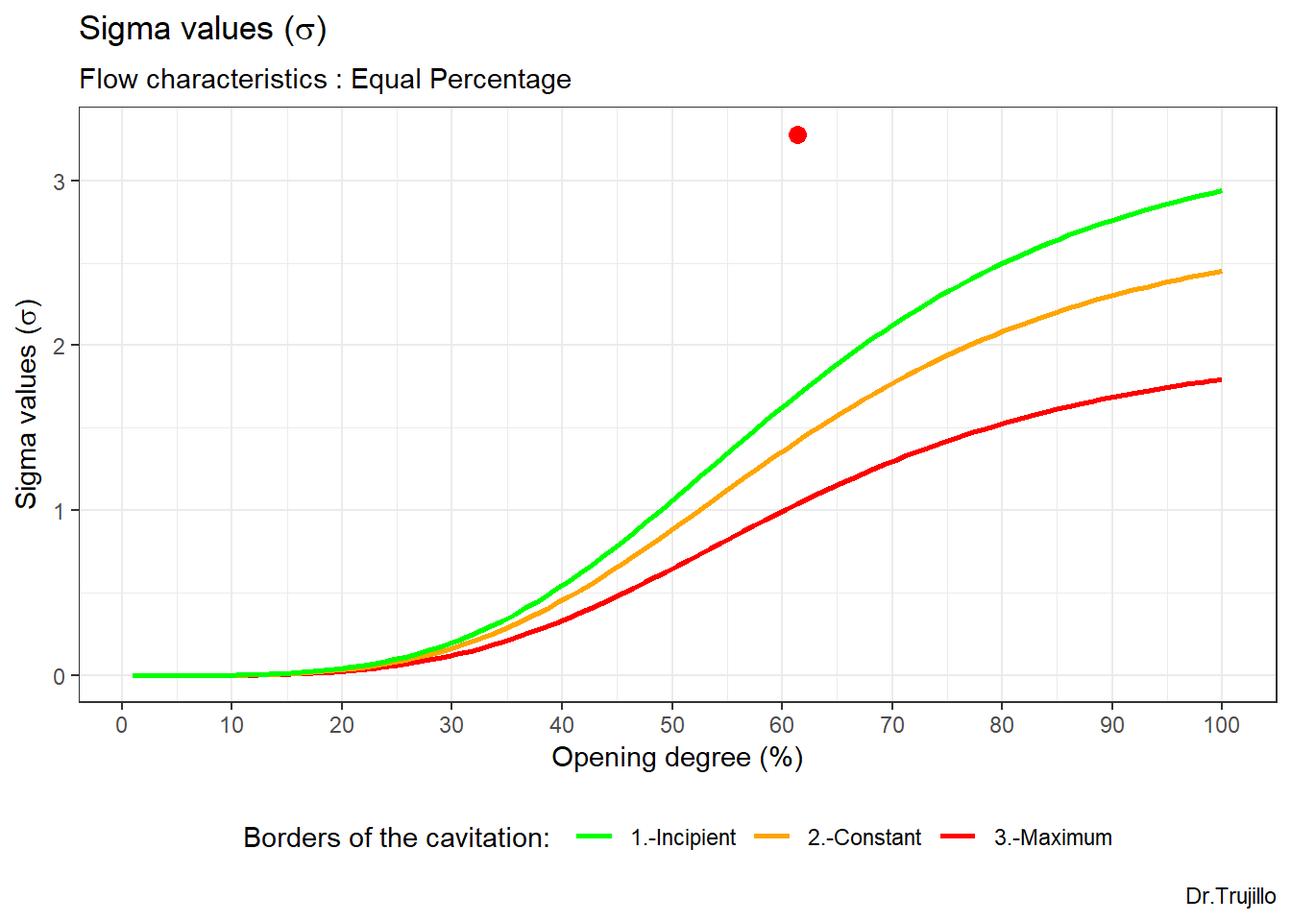
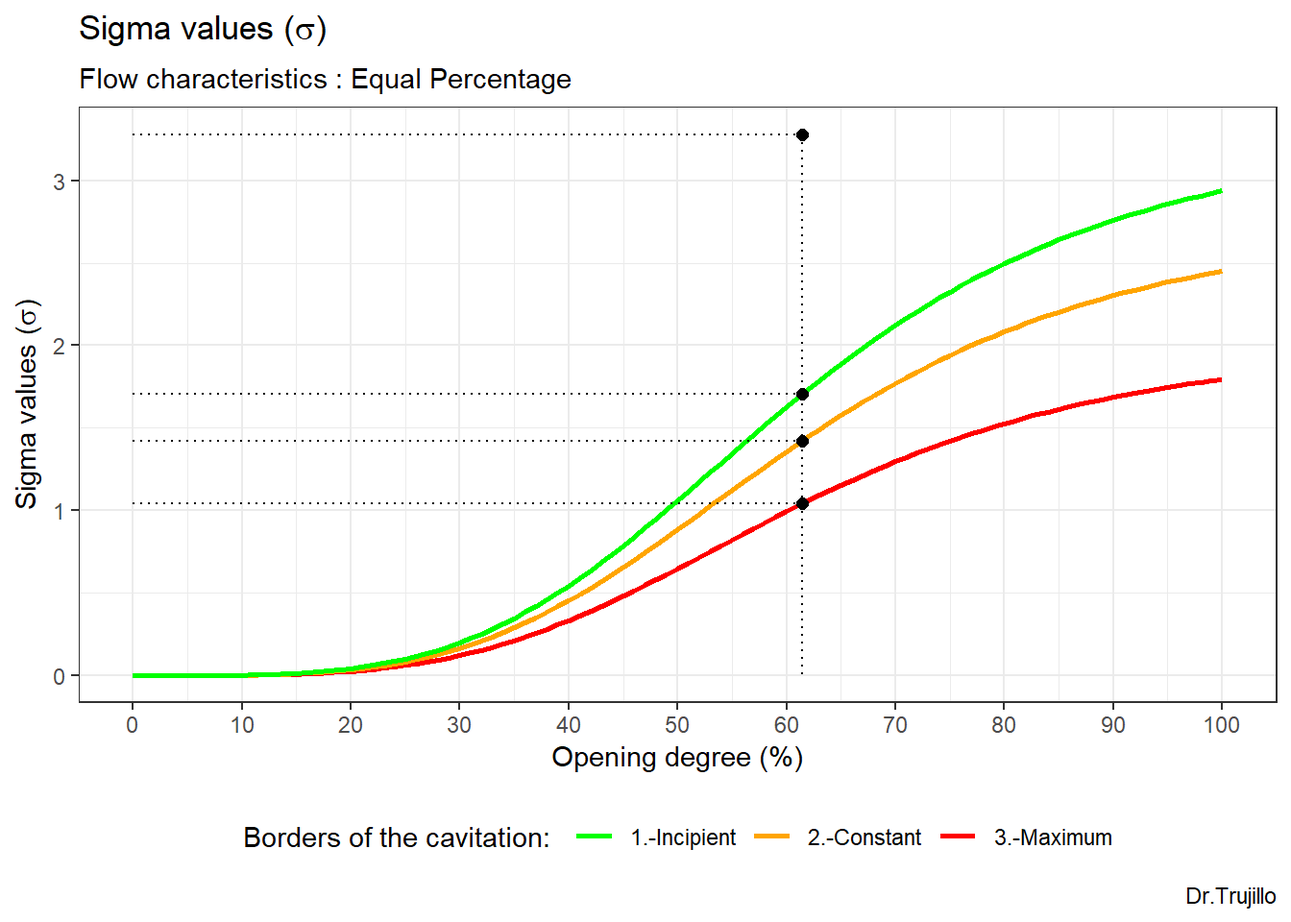
Update plot Sigma and formating of numbers

diff --git a/docs/use-of-flow-rate-equations-for-sizing-valves.html b/docs/use-of-flow-rate-equations-for-sizing-valves.html
@@ -24,7 +24,7 @@
 <meta name="author" content="Dr. Raúl Trujillo Álvarez" />
 
 
-<meta name="date" content="2020-08-26" />
+<meta name="date" content="2020-08-31" />
 
   <meta name="viewport" content="width=device-width, initial-scale=1" />
   <meta name="apple-mobile-web-app-capable" content="yes" />
@@ -122,7 +122,8 @@
 <li class="chapter" data-level="7.1.1" data-path="use-of-flow-rate-equations-for-sizing-valves.html"><a href="use-of-flow-rate-equations-for-sizing-valves.html#step-1.-specify-the-variables-required-to-size-the-valve."><i class="fa fa-check"></i><b>7.1.1</b> Step 1. Specify the variables required to size the valve.</a></li>
 <li class="chapter" data-level="7.1.2" data-path="use-of-flow-rate-equations-for-sizing-valves.html"><a href="use-of-flow-rate-equations-for-sizing-valves.html#step-2.-read-the-values-of-the-selected-control-characteristic."><i class="fa fa-check"></i><b>7.1.2</b> Step 2. Read the values of the selected Control Characteristic.</a></li>
 <li class="chapter" data-level="7.1.3" data-path="use-of-flow-rate-equations-for-sizing-valves.html"><a href="use-of-flow-rate-equations-for-sizing-valves.html#step-3.-calculate-the-required-flow-coefficient-k_v."><i class="fa fa-check"></i><b>7.1.3</b> Step 3. Calculate the required flow coefficient (<span class="math inline">\(K_v\)</span>).</a></li>
-<li class="chapter" data-level="7.1.4" data-path="use-of-flow-rate-equations-for-sizing-valves.html"><a href="use-of-flow-rate-equations-for-sizing-valves.html#step-3.-determine-the-pressure-drop-to-use-for-sizing-deltap_sizing."><i class="fa fa-check"></i><b>7.1.4</b> Step 3. Determine the pressure drop to use for sizing (<span class="math inline">\(\Delta{P_{sizing}}).\)</span></a></li>
+<li class="chapter" data-level="7.1.4" data-path="use-of-flow-rate-equations-for-sizing-valves.html"><a href="use-of-flow-rate-equations-for-sizing-valves.html#step-4.-calculate-the-value-of-sigma-sigma-and-its-boundaries."><i class="fa fa-check"></i><b>7.1.4</b> Step 4. calculate the value of sigma (<span class="math inline">\(\sigma\)</span>) and its boundaries.</a></li>
+<li class="chapter" data-level="7.1.5" data-path="use-of-flow-rate-equations-for-sizing-valves.html"><a href="use-of-flow-rate-equations-for-sizing-valves.html#step-5.-determine-the-pressure-drop-to-use-for-sizing-deltap_sizing."><i class="fa fa-check"></i><b>7.1.5</b> Step 5. Determine the pressure drop to use for sizing (<span class="math inline">\(\Delta{P_{sizing}}).\)</span></a></li>
 </ul></li>
 </ul></li>
 <li class="chapter" data-level="8" data-path="how-to-size-a-control-valve.html"><a href="how-to-size-a-control-valve.html"><i class="fa fa-check"></i><b>8</b> How to Size a control valve</a><ul>
@@ -157,12 +158,13 @@
 <h1><span class="header-section-number">Chapter 7</span> Use of flow rate equations for sizing valves</h1>
 <div id="example-1-sizing-a-valve-with-constant-flow-constant-upstream-and-constant-downstream-pressures." class="section level2">
 <h2><span class="header-section-number">7.1</span> Example 1: Sizing a valve with constant flow, constant upstream, and constant downstream pressures.</h2>
+<p>Sizing a valve without fittings, constant flow, constant upstream, and constant downstream pressures.</p>
 <ul>
-<li><p>Step 1. Specify the variables required to size the valve.</p></li>
-<li><p>Step 2. Read the values of the selected valve.</p></li>
-<li><p>Step 3. Determine the flow coefficient <span class="math inline">\(k_v\)</span>, the opening degree for the flow and <span class="math inline">\(F_L\)</span>.</p></li>
-<li><p>Step 4. Determine the pressure drop to use for sizing (<span class="math inline">\(\Delta{P_{sizing}}).\)</span></p></li>
-<li><p>Step 5. Calculate the required flow coefficient (<span class="math inline">\(K_v\)</span>).</p></li>
+<li>Step 1. Specify the variables required to size the valve.</li>
+<li>Step 2. Read the values of the selected valve.</li>
+<li>Step 3. Determine the flow coefficient <span class="math inline">\(k_v\)</span>, the opening degree for the flow and <span class="math inline">\(F_L\)</span>.</li>
+<li>Step 4. calculate the value of sigma (<span class="math inline">\(\sigma\)</span>) and its boundaries.</li>
+<li>Step 5. Determine the pressure drop to use for sizing (<span class="math inline">\(\Delta{P_{sizing}}).\)</span></li>
 </ul>
 <div id="step-1.-specify-the-variables-required-to-size-the-valve." class="section level3">
 <h3><span class="header-section-number">7.1.1</span> Step 1. Specify the variables required to size the valve.</h3>
@@ -176,7 +178,7 @@
 <li>Altitude: 0 msal.</li>
 <li>Atmosphere Pressure : 1.01325 bar</li>
 <li>Vapor Pressure : 0.0286128 bar</li>
-<li>Kinematic viscosity : 0.9430404 <span class="math inline">\((m^2/s)*1e-6\)</span></li>
+<li>Kinematic viscosity : 9.43e-01 <span class="math inline">\((mm^2/s)\)</span></li>
 </ul>
 <p>Service Conditions:</p>
 <ul>
@@ -190,7 +192,7 @@
 </ul>
 <p>Valve Design (first approx.):</p>
 <ul>
-<li>Valve: Plunger Valve <strong>VAG RIKO</strong></li>
+<li>Valve: Plunger Valve</li>
 <li>Diameter Valve <span class="math inline">\(d\)</span>: 250 mm<br />
 </li>
 <li>PN-10</li>
@@ -200,11 +202,12 @@
 </div>
 <div id="step-2.-read-the-values-of-the-selected-control-characteristic." class="section level3">
 <h3><span class="header-section-number">7.1.2</span> Step 2. Read the values of the selected Control Characteristic.</h3>
+<p>check the values of the preselected valve (values supplied by the valve producer).</p>
 <ul>
 <li>With the valve 100% open:
 <ul>
 <li>Zeta Value <span class="math inline">\(\zeta_{vs}\)</span> : 3</li>
-<li>Flow coefficient : <span class="math inline">\(K_{vs}\)</span> : 1441.9 <span class="math inline">\(m^3 / h\)</span></li>
+<li>Flow coefficient : <span class="math inline">\(K_{vs}\)</span> : 1,442 <span class="math inline">\(m^3/h\)</span></li>
 <li>liquid pressure recovery factor <span class="math inline">\({F_{L}}_{s}\)</span> : 0.598</li>
 </ul></li>
 </ul>
@@ -215,15 +218,15 @@
 <p><span class="math display">\[
   K_v = q \cdot \sqrt{\frac {(\rho / \rho_{0})}{\Delta P}}
 \]</span>
-the Required <span class="math inline">\(K_v\)</span> is 836.6 <span class="math inline">\(m^3/h\)</span> and the relative flow coefficient is <span class="math inline">\(K_v/K_{vs}=\)</span> 58%.</p>
-<p>Entering the graph of <span class="math inline">\(k_V/K_{VS}\)</span> with the value of 58% we find the position of the valve required for the flow of 795.6 <span class="math inline">\(m^3/h\)</span> and <span class="math inline">\(\Delta{P}\)</span> of 0.9 bar is 61.44%.</p>
+the Required <span class="math inline">\(K_v\)</span> is 837 <span class="math inline">\(m^3/h\)</span> and the relative flow coefficient is <span class="math inline">\(K_v/K_{vs}=\)</span> 58%.</p>
+<p>Entering the graph of <span class="math inline">\(k_V/K_{VS}\)</span> with the value of 58% we find the position of the valve required for the flow of 796 <span class="math inline">\(m^3/h\)</span> and <span class="math inline">\(\Delta{P}\)</span> of 0.9 bar is 61%.</p>
 <div class="figure"><span id="fig:kv-kvs-Example-1"></span>
 <img src="PlungerValves_files/figure-html/kv-kvs-Example-1-1.png" alt="Inherent Valve Characteristics" width="672" />
 <p class="caption">
 Figure 7.1: Inherent Valve Characteristics
 </p>
 </div>
-<p>Or it can be done directly with the <span class="math inline">\(K_V =\)</span> 837 <span class="math inline">\(m^3/h\)</span> value of on the <span class="math inline">\(K_V\)</span> graph.</p>
+<p>Or it can be done directly with the <span class="math inline">\(K_V =\)</span> 836.6268357 <span class="math inline">\(m^3/h\)</span> value of on the <span class="math inline">\(K_V\)</span> graph.</p>
 <div class="figure"><span id="fig:kv-Example-1"></span>
 <img src="PlungerValves_files/figure-html/kv-Example-1-1.png" alt="Flow coefficient" width="672" />
 <p class="caption">
@@ -232,8 +235,9 @@ Figure 7.2: Flow coefficient
 </div>
 <p>Knowing that the valve position is 61.44%, it is possible to read the Zeta Value <span class="math inline">\(\zeta_{v}\)</span> and the Liquid Pressure Recovery Factor <span class="math inline">\({F_L}\)</span>.:</p>
 <ul>
-<li><span class="math inline">\(\zeta_{v}=\)</span> 8.91</li>
-<li><span class="math inline">\({F_L}= 0.7\)</span></li>
+<li><span class="math inline">\(\zeta_{v}=\)</span> 9</li>
+<li><span class="math inline">\({F_L}=\)</span> 0.7</li>
+<li>Reynolds Number of the valve 2,530,820</li>
 </ul>
 <pre><code>## Warning: Transformation introduced infinite values in continuous y-axis</code></pre>
 <div class="figure"><span id="fig:zv-Example-1"></span>
@@ -248,15 +252,28 @@ Figure 7.3: Zeta Value
 Figure 7.4: Liquid pressure Recovery Factor
 </p>
 </div>
+</div>
+<div id="step-4.-calculate-the-value-of-sigma-sigma-and-its-boundaries." class="section level3">
+<h3><span class="header-section-number">7.1.4</span> Step 4. calculate the value of sigma (<span class="math inline">\(\sigma\)</span>) and its boundaries.</h3>
+<p>Using the function <a href="quantifying-the-cavitation-potential-of-the-valve.html#eq:sigma-value-01">(5.2)</a>:</p>
+<p><span class="math display">\[
+  \sigma_{1} = \frac{P_2-P_v}{\Delta P_{net}}
+\]</span></p>
+<ul>
+<li><p>Sigma value (<span class="math inline">\(\sigma_{1}\)</span>): 3.28</p></li>
+<li><p>Incipient Cavitation (<span class="math inline">\(\sigma_{i}\)</span>): 1.705</p></li>
+<li><p>Constant Cavitation (<span class="math inline">\(\sigma_{c}\)</span>): 1.423</p></li>
+<li><p>Maximum Vibration Cavitation (<span class="math inline">\(\sigma_{mv}\)</span>): 1.042</p></li>
+</ul>
 <div class="figure"><span id="fig:sigma-Example-1"></span>
-<img src="PlungerValves_files/figure-html/sigma-Example-1-1.png" alt="Sigma Value" width="672" />
+<img src="PlungerValves_files/figure-html/sigma-Example-1-1.png" alt="Sigma" width="672" />
 <p class="caption">
-Figure 7.5: Sigma Value
+Figure 7.5: Sigma
 </p>
 </div>
 </div>
-<div id="step-3.-determine-the-pressure-drop-to-use-for-sizing-deltap_sizing." class="section level3">
-<h3><span class="header-section-number">7.1.4</span> Step 3. Determine the pressure drop to use for sizing (<span class="math inline">\(\Delta{P_{sizing}}).\)</span></h3>
+<div id="step-5.-determine-the-pressure-drop-to-use-for-sizing-deltap_sizing." class="section level3">
+<h3><span class="header-section-number">7.1.5</span> Step 5. Determine the pressure drop to use for sizing (<span class="math inline">\(\Delta{P_{sizing}}).\)</span></h3>
 
 </div>
 </div>

diff --git a/docs/HydraulicBasics.html b/docs/HydraulicBasics.html
@@ -24,7 +24,7 @@
 <meta name="author" content="Dr. Raúl Trujillo Álvarez" />
 
 
-<meta name="date" content="2020-08-26" />
+<meta name="date" content="2020-08-31" />
 
   <meta name="viewport" content="width=device-width, initial-scale=1" />
   <meta name="apple-mobile-web-app-capable" content="yes" />
@@ -122,7 +122,8 @@
 <li class="chapter" data-level="7.1.1" data-path="use-of-flow-rate-equations-for-sizing-valves.html"><a href="use-of-flow-rate-equations-for-sizing-valves.html#step-1.-specify-the-variables-required-to-size-the-valve."><i class="fa fa-check"></i><b>7.1.1</b> Step 1. Specify the variables required to size the valve.</a></li>
 <li class="chapter" data-level="7.1.2" data-path="use-of-flow-rate-equations-for-sizing-valves.html"><a href="use-of-flow-rate-equations-for-sizing-valves.html#step-2.-read-the-values-of-the-selected-control-characteristic."><i class="fa fa-check"></i><b>7.1.2</b> Step 2. Read the values of the selected Control Characteristic.</a></li>
 <li class="chapter" data-level="7.1.3" data-path="use-of-flow-rate-equations-for-sizing-valves.html"><a href="use-of-flow-rate-equations-for-sizing-valves.html#step-3.-calculate-the-required-flow-coefficient-k_v."><i class="fa fa-check"></i><b>7.1.3</b> Step 3. Calculate the required flow coefficient (<span class="math inline">\(K_v\)</span>).</a></li>
-<li class="chapter" data-level="7.1.4" data-path="use-of-flow-rate-equations-for-sizing-valves.html"><a href="use-of-flow-rate-equations-for-sizing-valves.html#step-3.-determine-the-pressure-drop-to-use-for-sizing-deltap_sizing."><i class="fa fa-check"></i><b>7.1.4</b> Step 3. Determine the pressure drop to use for sizing (<span class="math inline">\(\Delta{P_{sizing}}).\)</span></a></li>
+<li class="chapter" data-level="7.1.4" data-path="use-of-flow-rate-equations-for-sizing-valves.html"><a href="use-of-flow-rate-equations-for-sizing-valves.html#step-4.-calculate-the-value-of-sigma-sigma-and-its-boundaries."><i class="fa fa-check"></i><b>7.1.4</b> Step 4. calculate the value of sigma (<span class="math inline">\(\sigma\)</span>) and its boundaries.</a></li>
+<li class="chapter" data-level="7.1.5" data-path="use-of-flow-rate-equations-for-sizing-valves.html"><a href="use-of-flow-rate-equations-for-sizing-valves.html#step-5.-determine-the-pressure-drop-to-use-for-sizing-deltap_sizing."><i class="fa fa-check"></i><b>7.1.5</b> Step 5. Determine the pressure drop to use for sizing (<span class="math inline">\(\Delta{P_{sizing}}).\)</span></a></li>
 </ul></li>
 </ul></li>
 <li class="chapter" data-level="8" data-path="how-to-size-a-control-valve.html"><a href="how-to-size-a-control-valve.html"><i class="fa fa-check"></i><b>8</b> How to Size a control valve</a><ul>
@@ -277,8 +278,8 @@
 <div id="roughness-coefficient-varepsilon-of-the-pipe-in-mm" class="section level2">
 <h2><span class="header-section-number">2.6</span> Roughness coefficient <span class="math inline">\(\varepsilon\)</span> of the pipe in mm</h2>
 <div class="figure"><span id="fig:roughnessTab"></span>
-<div id="htmlwidget-a570bbbf2663b847f769" style="width:100%;height:auto;" class="datatables html-widget"></div>
-<script type="application/json" data-for="htmlwidget-a570bbbf2663b847f769">{"x":{"filter":"none","data":[["1","2","3","4","5","6","7","8","9","10","11","12","13","14","15","16","17","18","19","20","21","22","23","24","25","26","27","28","29","30","31","32","33","34","35","36","37","38"],["Aluminium","Aluminium","Asbestos-cement","Brass","Brass","Cast iron","Cast iron","Cast iron","Cast iron","Cast iron","Cast iron","Clay- Drainage-pipe","Concrete","Concrete","Concrete","Concrete","Concrete-Centrifugal-","Concrete-Centrifugal-","Concrete-Steel-","Copper","Copper","Glass","Glass","Plastic","Plastic","Rubber","Steel","Steel","Steel","Steel","Steel-longitudinal welded","Steel-longitudinal welded","Steel-longitudinal welded","Steel-weldless","Steel-weldless","Steel-weldless","Steel-weldless","Steel-weldless"],["drawn/pressed","drawn/pressed","smooth","drawn/pressed","drawn/pressed","average city severage","incrusted","bituminized","with skin","operating several years- cleaned","slightly rusty","calcined","medium rough","rough","smooth","operating several years","smooth plastered","without plaster","smooth","drawn/pressed","drawn/pressed","drawn/pressed","drawn/pressed","drawn/pressed","drawn/pressed","smoot","after long operation cleaned","homogeneous corrosion pits","intensely incrusted","slightly rusty and incrusted","bituminized","galvanized","rolling skin","comm.size galvanized","neatly galvanized","pickled","rolling skin","unpickled"],[true,false,true,true,false,false,false,true,true,false,false,true,true,true,true,false,true,true,true,true,false,true,false,true,false,true,false,false,false,false,true,true,true,true,true,true,true,true],[false,true,false,false,true,true,true,false,false,true,false,false,false,false,false,true,false,false,false,false,true,false,true,false,true,false,true,true,true,true,false,false,false,false,false,false,false,false],[false,false,false,false,false,false,false,false,false,true,false,false,false,false,false,false,false,false,false,false,false,false,false,false,false,false,true,false,false,false,false,false,false,false,false,false,false,false],[0.0013,0.03,0.03,0.0013,0.03,1.2,3,0.1,0.2,1.5,1,0.7,1,2,0.3,0.2,0.1,0.2,1,0.0013,0.03,0.0013,0.03,0.0013,0.03,0.0016,0.15,0.15,2,0.15,0.01,0.008,0.04,0.1,0.07,0.03,0.02,0.03],[0.0015,0.0346,0.1,0.0014,0.0323,1.56,3.9,0.13,0.6,1.95,1.5,1.05,2,3,0.8,0.3,0.15,0.8,0.15,0.0015,0.0346,0.0015,0.0346,0.0015,0.0346,0.0018,0.2,0.2,4,0.4,0.05,0.04,0.1,0.16,0.1,0.04,0.06,0.06]],"container":"<table class=\"display\">\n  <thead>\n    <tr>\n      <th> <\/th>\n      <th>material<\/th>\n      <th>comment<\/th>\n      <th>new<\/th>\n      <th>used<\/th>\n      <th>cleaned<\/th>\n      <th>min<\/th>\n      <th>max<\/th>\n    <\/tr>\n  <\/thead>\n<\/table>","options":{"columnDefs":[{"className":"dt-right","targets":[6,7]},{"orderable":false,"targets":0}],"order":[],"autoWidth":false,"orderClasses":false}},"evals":[],"jsHooks":[]}</script>
+<div id="htmlwidget-edac96e579a643b2386e" style="width:100%;height:auto;" class="datatables html-widget"></div>
+<script type="application/json" data-for="htmlwidget-edac96e579a643b2386e">{"x":{"filter":"none","data":[["1","2","3","4","5","6","7","8","9","10","11","12","13","14","15","16","17","18","19","20","21","22","23","24","25","26","27","28","29","30","31","32","33","34","35","36","37","38"],["Aluminium","Aluminium","Asbestos-cement","Brass","Brass","Cast iron","Cast iron","Cast iron","Cast iron","Cast iron","Cast iron","Clay- Drainage-pipe","Concrete","Concrete","Concrete","Concrete","Concrete-Centrifugal-","Concrete-Centrifugal-","Concrete-Steel-","Copper","Copper","Glass","Glass","Plastic","Plastic","Rubber","Steel","Steel","Steel","Steel","Steel-longitudinal welded","Steel-longitudinal welded","Steel-longitudinal welded","Steel-weldless","Steel-weldless","Steel-weldless","Steel-weldless","Steel-weldless"],["drawn/pressed","drawn/pressed","smooth","drawn/pressed","drawn/pressed","average city severage","incrusted","bituminized","with skin","operating several years- cleaned","slightly rusty","calcined","medium rough","rough","smooth","operating several years","smooth plastered","without plaster","smooth","drawn/pressed","drawn/pressed","drawn/pressed","drawn/pressed","drawn/pressed","drawn/pressed","smoot","after long operation cleaned","homogeneous corrosion pits","intensely incrusted","slightly rusty and incrusted","bituminized","galvanized","rolling skin","comm.size galvanized","neatly galvanized","pickled","rolling skin","unpickled"],[true,false,true,true,false,false,false,true,true,false,false,true,true,true,true,false,true,true,true,true,false,true,false,true,false,true,false,false,false,false,true,true,true,true,true,true,true,true],[false,true,false,false,true,true,true,false,false,true,false,false,false,false,false,true,false,false,false,false,true,false,true,false,true,false,true,true,true,true,false,false,false,false,false,false,false,false],[false,false,false,false,false,false,false,false,false,true,false,false,false,false,false,false,false,false,false,false,false,false,false,false,false,false,true,false,false,false,false,false,false,false,false,false,false,false],[0.0013,0.03,0.03,0.0013,0.03,1.2,3,0.1,0.2,1.5,1,0.7,1,2,0.3,0.2,0.1,0.2,1,0.0013,0.03,0.0013,0.03,0.0013,0.03,0.0016,0.15,0.15,2,0.15,0.01,0.008,0.04,0.1,0.07,0.03,0.02,0.03],[0.0015,0.0346,0.1,0.0014,0.0323,1.56,3.9,0.13,0.6,1.95,1.5,1.05,2,3,0.8,0.3,0.15,0.8,0.15,0.0015,0.0346,0.0015,0.0346,0.0015,0.0346,0.0018,0.2,0.2,4,0.4,0.05,0.04,0.1,0.16,0.1,0.04,0.06,0.06]],"container":"<table class=\"display\">\n  <thead>\n    <tr>\n      <th> <\/th>\n      <th>material<\/th>\n      <th>comment<\/th>\n      <th>new<\/th>\n      <th>used<\/th>\n      <th>cleaned<\/th>\n      <th>min<\/th>\n      <th>max<\/th>\n    <\/tr>\n  <\/thead>\n<\/table>","options":{"columnDefs":[{"className":"dt-right","targets":[6,7]},{"orderable":false,"targets":0}],"order":[],"autoWidth":false,"orderClasses":false}},"evals":[],"jsHooks":[]}</script>
 <p class="caption">
 Figure 2.1: Roughness coefficient in milimeter.
 </p>

diff --git a/docs/how-to-size-a-control-valve.html b/docs/how-to-size-a-control-valve.html
@@ -24,7 +24,7 @@
 <meta name="author" content="Dr. Raúl Trujillo Álvarez" />
 
 
-<meta name="date" content="2020-08-26" />
+<meta name="date" content="2020-08-31" />
 
   <meta name="viewport" content="width=device-width, initial-scale=1" />
   <meta name="apple-mobile-web-app-capable" content="yes" />
@@ -122,7 +122,8 @@
 <li class="chapter" data-level="7.1.1" data-path="use-of-flow-rate-equations-for-sizing-valves.html"><a href="use-of-flow-rate-equations-for-sizing-valves.html#step-1.-specify-the-variables-required-to-size-the-valve."><i class="fa fa-check"></i><b>7.1.1</b> Step 1. Specify the variables required to size the valve.</a></li>
 <li class="chapter" data-level="7.1.2" data-path="use-of-flow-rate-equations-for-sizing-valves.html"><a href="use-of-flow-rate-equations-for-sizing-valves.html#step-2.-read-the-values-of-the-selected-control-characteristic."><i class="fa fa-check"></i><b>7.1.2</b> Step 2. Read the values of the selected Control Characteristic.</a></li>
 <li class="chapter" data-level="7.1.3" data-path="use-of-flow-rate-equations-for-sizing-valves.html"><a href="use-of-flow-rate-equations-for-sizing-valves.html#step-3.-calculate-the-required-flow-coefficient-k_v."><i class="fa fa-check"></i><b>7.1.3</b> Step 3. Calculate the required flow coefficient (<span class="math inline">\(K_v\)</span>).</a></li>
-<li class="chapter" data-level="7.1.4" data-path="use-of-flow-rate-equations-for-sizing-valves.html"><a href="use-of-flow-rate-equations-for-sizing-valves.html#step-3.-determine-the-pressure-drop-to-use-for-sizing-deltap_sizing."><i class="fa fa-check"></i><b>7.1.4</b> Step 3. Determine the pressure drop to use for sizing (<span class="math inline">\(\Delta{P_{sizing}}).\)</span></a></li>
+<li class="chapter" data-level="7.1.4" data-path="use-of-flow-rate-equations-for-sizing-valves.html"><a href="use-of-flow-rate-equations-for-sizing-valves.html#step-4.-calculate-the-value-of-sigma-sigma-and-its-boundaries."><i class="fa fa-check"></i><b>7.1.4</b> Step 4. calculate the value of sigma (<span class="math inline">\(\sigma\)</span>) and its boundaries.</a></li>
+<li class="chapter" data-level="7.1.5" data-path="use-of-flow-rate-equations-for-sizing-valves.html"><a href="use-of-flow-rate-equations-for-sizing-valves.html#step-5.-determine-the-pressure-drop-to-use-for-sizing-deltap_sizing."><i class="fa fa-check"></i><b>7.1.5</b> Step 5. Determine the pressure drop to use for sizing (<span class="math inline">\(\Delta{P_{sizing}}).\)</span></a></li>
 </ul></li>
 </ul></li>
 <li class="chapter" data-level="8" data-path="how-to-size-a-control-valve.html"><a href="how-to-size-a-control-valve.html"><i class="fa fa-check"></i><b>8</b> How to Size a control valve</a><ul>
@@ -232,7 +233,7 @@ Where <a href="sizing-equations-for-incompressible-fluids-flow-of-nonvaporizing-
 <p>Bernoulli pressure number in the valve outlet <a href="sizing-equations-for-incompressible-fluids-flow-of-nonvaporizing-liquid.html#eq:Zb2">(4.8)</a>:
 <span class="math inline">\(\zeta_{B_2} = 1- \left( \frac{d}{D_2} \right)^4 =\)</span> 0.0039</p>
 <p><span class="math inline">\(\sum{\zeta} =\)</span> 0.4179</p>
-<p><span class="math inline">\(F_P =\)</span> 1.158025610^{-5}</p>
+<p><span class="math inline">\(F_P =\)</span> 1.001316210^{-5}</p>
 
 </div>
 </div>

diff --git a/docs/preface.html b/docs/preface.html
@@ -24,7 +24,7 @@
 <meta name="author" content="Dr. Raúl Trujillo Álvarez" />
 
 
-<meta name="date" content="2020-08-26" />
+<meta name="date" content="2020-08-31" />
 
   <meta name="viewport" content="width=device-width, initial-scale=1" />
   <meta name="apple-mobile-web-app-capable" content="yes" />
@@ -122,7 +122,8 @@
 <li class="chapter" data-level="7.1.1" data-path="use-of-flow-rate-equations-for-sizing-valves.html"><a href="use-of-flow-rate-equations-for-sizing-valves.html#step-1.-specify-the-variables-required-to-size-the-valve."><i class="fa fa-check"></i><b>7.1.1</b> Step 1. Specify the variables required to size the valve.</a></li>
 <li class="chapter" data-level="7.1.2" data-path="use-of-flow-rate-equations-for-sizing-valves.html"><a href="use-of-flow-rate-equations-for-sizing-valves.html#step-2.-read-the-values-of-the-selected-control-characteristic."><i class="fa fa-check"></i><b>7.1.2</b> Step 2. Read the values of the selected Control Characteristic.</a></li>
 <li class="chapter" data-level="7.1.3" data-path="use-of-flow-rate-equations-for-sizing-valves.html"><a href="use-of-flow-rate-equations-for-sizing-valves.html#step-3.-calculate-the-required-flow-coefficient-k_v."><i class="fa fa-check"></i><b>7.1.3</b> Step 3. Calculate the required flow coefficient (<span class="math inline">\(K_v\)</span>).</a></li>
-<li class="chapter" data-level="7.1.4" data-path="use-of-flow-rate-equations-for-sizing-valves.html"><a href="use-of-flow-rate-equations-for-sizing-valves.html#step-3.-determine-the-pressure-drop-to-use-for-sizing-deltap_sizing."><i class="fa fa-check"></i><b>7.1.4</b> Step 3. Determine the pressure drop to use for sizing (<span class="math inline">\(\Delta{P_{sizing}}).\)</span></a></li>
+<li class="chapter" data-level="7.1.4" data-path="use-of-flow-rate-equations-for-sizing-valves.html"><a href="use-of-flow-rate-equations-for-sizing-valves.html#step-4.-calculate-the-value-of-sigma-sigma-and-its-boundaries."><i class="fa fa-check"></i><b>7.1.4</b> Step 4. calculate the value of sigma (<span class="math inline">\(\sigma\)</span>) and its boundaries.</a></li>
+<li class="chapter" data-level="7.1.5" data-path="use-of-flow-rate-equations-for-sizing-valves.html"><a href="use-of-flow-rate-equations-for-sizing-valves.html#step-5.-determine-the-pressure-drop-to-use-for-sizing-deltap_sizing."><i class="fa fa-check"></i><b>7.1.5</b> Step 5. Determine the pressure drop to use for sizing (<span class="math inline">\(\Delta{P_{sizing}}).\)</span></a></li>
 </ul></li>
 </ul></li>
 <li class="chapter" data-level="8" data-path="how-to-size-a-control-valve.html"><a href="how-to-size-a-control-valve.html"><i class="fa fa-check"></i><b>8</b> How to Size a control valve</a><ul>
@@ -156,7 +157,7 @@
 <div id="header">
 <h1 class="title">Plunger Valves (UNDER CONSTRUCTION!!!)</h1>
 <p class="author"><em>Dr. Raúl Trujillo Álvarez</em></p>
-<p class="date"><em>2020-08-26</em></p>
+<p class="date"><em>2020-08-31</em></p>
 </div>
 <div id="preface" class="section level1 unnumbered">
 <h1>Preface</h1>

diff --git a/docs/HydraulicValves.html b/docs/HydraulicValves.html
@@ -24,7 +24,7 @@
 <meta name="author" content="Dr. Raúl Trujillo Álvarez" />
 
 
-<meta name="date" content="2020-08-26" />
+<meta name="date" content="2020-08-31" />
 
   <meta name="viewport" content="width=device-width, initial-scale=1" />
   <meta name="apple-mobile-web-app-capable" content="yes" />
@@ -122,7 +122,8 @@
 <li class="chapter" data-level="7.1.1" data-path="use-of-flow-rate-equations-for-sizing-valves.html"><a href="use-of-flow-rate-equations-for-sizing-valves.html#step-1.-specify-the-variables-required-to-size-the-valve."><i class="fa fa-check"></i><b>7.1.1</b> Step 1. Specify the variables required to size the valve.</a></li>
 <li class="chapter" data-level="7.1.2" data-path="use-of-flow-rate-equations-for-sizing-valves.html"><a href="use-of-flow-rate-equations-for-sizing-valves.html#step-2.-read-the-values-of-the-selected-control-characteristic."><i class="fa fa-check"></i><b>7.1.2</b> Step 2. Read the values of the selected Control Characteristic.</a></li>
 <li class="chapter" data-level="7.1.3" data-path="use-of-flow-rate-equations-for-sizing-valves.html"><a href="use-of-flow-rate-equations-for-sizing-valves.html#step-3.-calculate-the-required-flow-coefficient-k_v."><i class="fa fa-check"></i><b>7.1.3</b> Step 3. Calculate the required flow coefficient (<span class="math inline">\(K_v\)</span>).</a></li>
-<li class="chapter" data-level="7.1.4" data-path="use-of-flow-rate-equations-for-sizing-valves.html"><a href="use-of-flow-rate-equations-for-sizing-valves.html#step-3.-determine-the-pressure-drop-to-use-for-sizing-deltap_sizing."><i class="fa fa-check"></i><b>7.1.4</b> Step 3. Determine the pressure drop to use for sizing (<span class="math inline">\(\Delta{P_{sizing}}).\)</span></a></li>
+<li class="chapter" data-level="7.1.4" data-path="use-of-flow-rate-equations-for-sizing-valves.html"><a href="use-of-flow-rate-equations-for-sizing-valves.html#step-4.-calculate-the-value-of-sigma-sigma-and-its-boundaries."><i class="fa fa-check"></i><b>7.1.4</b> Step 4. calculate the value of sigma (<span class="math inline">\(\sigma\)</span>) and its boundaries.</a></li>
+<li class="chapter" data-level="7.1.5" data-path="use-of-flow-rate-equations-for-sizing-valves.html"><a href="use-of-flow-rate-equations-for-sizing-valves.html#step-5.-determine-the-pressure-drop-to-use-for-sizing-deltap_sizing."><i class="fa fa-check"></i><b>7.1.5</b> Step 5. Determine the pressure drop to use for sizing (<span class="math inline">\(\Delta{P_{sizing}}).\)</span></a></li>
 </ul></li>
 </ul></li>
 <li class="chapter" data-level="8" data-path="how-to-size-a-control-valve.html"><a href="how-to-size-a-control-valve.html"><i class="fa fa-check"></i><b>8</b> How to Size a control valve</a><ul>

diff --git a/docs/inherent-and-installed-flow-characteristics.html b/docs/inherent-and-installed-flow-characteristics.html
@@ -24,7 +24,7 @@
 <meta name="author" content="Dr. Raúl Trujillo Álvarez" />
 
 
-<meta name="date" content="2020-08-26" />
+<meta name="date" content="2020-08-31" />
 
   <meta name="viewport" content="width=device-width, initial-scale=1" />
   <meta name="apple-mobile-web-app-capable" content="yes" />
@@ -122,7 +122,8 @@
 <li class="chapter" data-level="7.1.1" data-path="use-of-flow-rate-equations-for-sizing-valves.html"><a href="use-of-flow-rate-equations-for-sizing-valves.html#step-1.-specify-the-variables-required-to-size-the-valve."><i class="fa fa-check"></i><b>7.1.1</b> Step 1. Specify the variables required to size the valve.</a></li>
 <li class="chapter" data-level="7.1.2" data-path="use-of-flow-rate-equations-for-sizing-valves.html"><a href="use-of-flow-rate-equations-for-sizing-valves.html#step-2.-read-the-values-of-the-selected-control-characteristic."><i class="fa fa-check"></i><b>7.1.2</b> Step 2. Read the values of the selected Control Characteristic.</a></li>
 <li class="chapter" data-level="7.1.3" data-path="use-of-flow-rate-equations-for-sizing-valves.html"><a href="use-of-flow-rate-equations-for-sizing-valves.html#step-3.-calculate-the-required-flow-coefficient-k_v."><i class="fa fa-check"></i><b>7.1.3</b> Step 3. Calculate the required flow coefficient (<span class="math inline">\(K_v\)</span>).</a></li>
-<li class="chapter" data-level="7.1.4" data-path="use-of-flow-rate-equations-for-sizing-valves.html"><a href="use-of-flow-rate-equations-for-sizing-valves.html#step-3.-determine-the-pressure-drop-to-use-for-sizing-deltap_sizing."><i class="fa fa-check"></i><b>7.1.4</b> Step 3. Determine the pressure drop to use for sizing (<span class="math inline">\(\Delta{P_{sizing}}).\)</span></a></li>
+<li class="chapter" data-level="7.1.4" data-path="use-of-flow-rate-equations-for-sizing-valves.html"><a href="use-of-flow-rate-equations-for-sizing-valves.html#step-4.-calculate-the-value-of-sigma-sigma-and-its-boundaries."><i class="fa fa-check"></i><b>7.1.4</b> Step 4. calculate the value of sigma (<span class="math inline">\(\sigma\)</span>) and its boundaries.</a></li>
+<li class="chapter" data-level="7.1.5" data-path="use-of-flow-rate-equations-for-sizing-valves.html"><a href="use-of-flow-rate-equations-for-sizing-valves.html#step-5.-determine-the-pressure-drop-to-use-for-sizing-deltap_sizing."><i class="fa fa-check"></i><b>7.1.5</b> Step 5. Determine the pressure drop to use for sizing (<span class="math inline">\(\Delta{P_{sizing}}).\)</span></a></li>
 </ul></li>
 </ul></li>
 <li class="chapter" data-level="8" data-path="how-to-size-a-control-valve.html"><a href="how-to-size-a-control-valve.html"><i class="fa fa-check"></i><b>8</b> How to Size a control valve</a><ul>

diff --git a/docs/intro.html b/docs/intro.html
@@ -24,7 +24,7 @@
 <meta name="author" content="Dr. Raúl Trujillo Álvarez" />
 
 
-<meta name="date" content="2020-08-26" />
+<meta name="date" content="2020-08-31" />
 
   <meta name="viewport" content="width=device-width, initial-scale=1" />
   <meta name="apple-mobile-web-app-capable" content="yes" />
@@ -122,7 +122,8 @@
 <li class="chapter" data-level="7.1.1" data-path="use-of-flow-rate-equations-for-sizing-valves.html"><a href="use-of-flow-rate-equations-for-sizing-valves.html#step-1.-specify-the-variables-required-to-size-the-valve."><i class="fa fa-check"></i><b>7.1.1</b> Step 1. Specify the variables required to size the valve.</a></li>
 <li class="chapter" data-level="7.1.2" data-path="use-of-flow-rate-equations-for-sizing-valves.html"><a href="use-of-flow-rate-equations-for-sizing-valves.html#step-2.-read-the-values-of-the-selected-control-characteristic."><i class="fa fa-check"></i><b>7.1.2</b> Step 2. Read the values of the selected Control Characteristic.</a></li>
 <li class="chapter" data-level="7.1.3" data-path="use-of-flow-rate-equations-for-sizing-valves.html"><a href="use-of-flow-rate-equations-for-sizing-valves.html#step-3.-calculate-the-required-flow-coefficient-k_v."><i class="fa fa-check"></i><b>7.1.3</b> Step 3. Calculate the required flow coefficient (<span class="math inline">\(K_v\)</span>).</a></li>
-<li class="chapter" data-level="7.1.4" data-path="use-of-flow-rate-equations-for-sizing-valves.html"><a href="use-of-flow-rate-equations-for-sizing-valves.html#step-3.-determine-the-pressure-drop-to-use-for-sizing-deltap_sizing."><i class="fa fa-check"></i><b>7.1.4</b> Step 3. Determine the pressure drop to use for sizing (<span class="math inline">\(\Delta{P_{sizing}}).\)</span></a></li>
+<li class="chapter" data-level="7.1.4" data-path="use-of-flow-rate-equations-for-sizing-valves.html"><a href="use-of-flow-rate-equations-for-sizing-valves.html#step-4.-calculate-the-value-of-sigma-sigma-and-its-boundaries."><i class="fa fa-check"></i><b>7.1.4</b> Step 4. calculate the value of sigma (<span class="math inline">\(\sigma\)</span>) and its boundaries.</a></li>
+<li class="chapter" data-level="7.1.5" data-path="use-of-flow-rate-equations-for-sizing-valves.html"><a href="use-of-flow-rate-equations-for-sizing-valves.html#step-5.-determine-the-pressure-drop-to-use-for-sizing-deltap_sizing."><i class="fa fa-check"></i><b>7.1.5</b> Step 5. Determine the pressure drop to use for sizing (<span class="math inline">\(\Delta{P_{sizing}}).\)</span></a></li>
 </ul></li>
 </ul></li>
 <li class="chapter" data-level="8" data-path="how-to-size-a-control-valve.html"><a href="how-to-size-a-control-valve.html"><i class="fa fa-check"></i><b>8</b> How to Size a control valve</a><ul>

diff --git a/docs/quantifying-the-cavitation-potential-of-the-valve.html b/docs/quantifying-the-cavitation-potential-of-the-valve.html
@@ -24,7 +24,7 @@
 <meta name="author" content="Dr. Raúl Trujillo Álvarez" />
 
 
-<meta name="date" content="2020-08-26" />
+<meta name="date" content="2020-08-31" />
 
   <meta name="viewport" content="width=device-width, initial-scale=1" />
   <meta name="apple-mobile-web-app-capable" content="yes" />
@@ -122,7 +122,8 @@
 <li class="chapter" data-level="7.1.1" data-path="use-of-flow-rate-equations-for-sizing-valves.html"><a href="use-of-flow-rate-equations-for-sizing-valves.html#step-1.-specify-the-variables-required-to-size-the-valve."><i class="fa fa-check"></i><b>7.1.1</b> Step 1. Specify the variables required to size the valve.</a></li>
 <li class="chapter" data-level="7.1.2" data-path="use-of-flow-rate-equations-for-sizing-valves.html"><a href="use-of-flow-rate-equations-for-sizing-valves.html#step-2.-read-the-values-of-the-selected-control-characteristic."><i class="fa fa-check"></i><b>7.1.2</b> Step 2. Read the values of the selected Control Characteristic.</a></li>
 <li class="chapter" data-level="7.1.3" data-path="use-of-flow-rate-equations-for-sizing-valves.html"><a href="use-of-flow-rate-equations-for-sizing-valves.html#step-3.-calculate-the-required-flow-coefficient-k_v."><i class="fa fa-check"></i><b>7.1.3</b> Step 3. Calculate the required flow coefficient (<span class="math inline">\(K_v\)</span>).</a></li>
-<li class="chapter" data-level="7.1.4" data-path="use-of-flow-rate-equations-for-sizing-valves.html"><a href="use-of-flow-rate-equations-for-sizing-valves.html#step-3.-determine-the-pressure-drop-to-use-for-sizing-deltap_sizing."><i class="fa fa-check"></i><b>7.1.4</b> Step 3. Determine the pressure drop to use for sizing (<span class="math inline">\(\Delta{P_{sizing}}).\)</span></a></li>
+<li class="chapter" data-level="7.1.4" data-path="use-of-flow-rate-equations-for-sizing-valves.html"><a href="use-of-flow-rate-equations-for-sizing-valves.html#step-4.-calculate-the-value-of-sigma-sigma-and-its-boundaries."><i class="fa fa-check"></i><b>7.1.4</b> Step 4. calculate the value of sigma (<span class="math inline">\(\sigma\)</span>) and its boundaries.</a></li>
+<li class="chapter" data-level="7.1.5" data-path="use-of-flow-rate-equations-for-sizing-valves.html"><a href="use-of-flow-rate-equations-for-sizing-valves.html#step-5.-determine-the-pressure-drop-to-use-for-sizing-deltap_sizing."><i class="fa fa-check"></i><b>7.1.5</b> Step 5. Determine the pressure drop to use for sizing (<span class="math inline">\(\Delta{P_{sizing}}).\)</span></a></li>
 </ul></li>
 </ul></li>
 <li class="chapter" data-level="8" data-path="how-to-size-a-control-valve.html"><a href="how-to-size-a-control-valve.html"><i class="fa fa-check"></i><b>8</b> How to Size a control valve</a><ul>

diff --git a/docs/references.html b/docs/references.html
@@ -24,7 +24,7 @@
 <meta name="author" content="Dr. Raúl Trujillo Álvarez" />
 
 
-<meta name="date" content="2020-08-26" />
+<meta name="date" content="2020-08-31" />
 
   <meta name="viewport" content="width=device-width, initial-scale=1" />
   <meta name="apple-mobile-web-app-capable" content="yes" />
@@ -122,7 +122,8 @@
 <li class="chapter" data-level="7.1.1" data-path="use-of-flow-rate-equations-for-sizing-valves.html"><a href="use-of-flow-rate-equations-for-sizing-valves.html#step-1.-specify-the-variables-required-to-size-the-valve."><i class="fa fa-check"></i><b>7.1.1</b> Step 1. Specify the variables required to size the valve.</a></li>
 <li class="chapter" data-level="7.1.2" data-path="use-of-flow-rate-equations-for-sizing-valves.html"><a href="use-of-flow-rate-equations-for-sizing-valves.html#step-2.-read-the-values-of-the-selected-control-characteristic."><i class="fa fa-check"></i><b>7.1.2</b> Step 2. Read the values of the selected Control Characteristic.</a></li>
 <li class="chapter" data-level="7.1.3" data-path="use-of-flow-rate-equations-for-sizing-valves.html"><a href="use-of-flow-rate-equations-for-sizing-valves.html#step-3.-calculate-the-required-flow-coefficient-k_v."><i class="fa fa-check"></i><b>7.1.3</b> Step 3. Calculate the required flow coefficient (<span class="math inline">\(K_v\)</span>).</a></li>
-<li class="chapter" data-level="7.1.4" data-path="use-of-flow-rate-equations-for-sizing-valves.html"><a href="use-of-flow-rate-equations-for-sizing-valves.html#step-3.-determine-the-pressure-drop-to-use-for-sizing-deltap_sizing."><i class="fa fa-check"></i><b>7.1.4</b> Step 3. Determine the pressure drop to use for sizing (<span class="math inline">\(\Delta{P_{sizing}}).\)</span></a></li>
+<li class="chapter" data-level="7.1.4" data-path="use-of-flow-rate-equations-for-sizing-valves.html"><a href="use-of-flow-rate-equations-for-sizing-valves.html#step-4.-calculate-the-value-of-sigma-sigma-and-its-boundaries."><i class="fa fa-check"></i><b>7.1.4</b> Step 4. calculate the value of sigma (<span class="math inline">\(\sigma\)</span>) and its boundaries.</a></li>
+<li class="chapter" data-level="7.1.5" data-path="use-of-flow-rate-equations-for-sizing-valves.html"><a href="use-of-flow-rate-equations-for-sizing-valves.html#step-5.-determine-the-pressure-drop-to-use-for-sizing-deltap_sizing."><i class="fa fa-check"></i><b>7.1.5</b> Step 5. Determine the pressure drop to use for sizing (<span class="math inline">\(\Delta{P_{sizing}}).\)</span></a></li>
 </ul></li>
 </ul></li>
 <li class="chapter" data-level="8" data-path="how-to-size-a-control-valve.html"><a href="how-to-size-a-control-valve.html"><i class="fa fa-check"></i><b>8</b> How to Size a control valve</a><ul>

diff --git a/docs/sizing-equations-for-incompressible-fluids-flow-of-nonvaporizing-liquid.html b/docs/sizing-equations-for-incompressible-fluids-flow-of-nonvaporizing-liquid.html
@@ -24,7 +24,7 @@
 <meta name="author" content="Dr. Raúl Trujillo Álvarez" />
 
 
-<meta name="date" content="2020-08-26" />
+<meta name="date" content="2020-08-31" />
 
   <meta name="viewport" content="width=device-width, initial-scale=1" />
   <meta name="apple-mobile-web-app-capable" content="yes" />
@@ -122,7 +122,8 @@
 <li class="chapter" data-level="7.1.1" data-path="use-of-flow-rate-equations-for-sizing-valves.html"><a href="use-of-flow-rate-equations-for-sizing-valves.html#step-1.-specify-the-variables-required-to-size-the-valve."><i class="fa fa-check"></i><b>7.1.1</b> Step 1. Specify the variables required to size the valve.</a></li>
 <li class="chapter" data-level="7.1.2" data-path="use-of-flow-rate-equations-for-sizing-valves.html"><a href="use-of-flow-rate-equations-for-sizing-valves.html#step-2.-read-the-values-of-the-selected-control-characteristic."><i class="fa fa-check"></i><b>7.1.2</b> Step 2. Read the values of the selected Control Characteristic.</a></li>
 <li class="chapter" data-level="7.1.3" data-path="use-of-flow-rate-equations-for-sizing-valves.html"><a href="use-of-flow-rate-equations-for-sizing-valves.html#step-3.-calculate-the-required-flow-coefficient-k_v."><i class="fa fa-check"></i><b>7.1.3</b> Step 3. Calculate the required flow coefficient (<span class="math inline">\(K_v\)</span>).</a></li>
-<li class="chapter" data-level="7.1.4" data-path="use-of-flow-rate-equations-for-sizing-valves.html"><a href="use-of-flow-rate-equations-for-sizing-valves.html#step-3.-determine-the-pressure-drop-to-use-for-sizing-deltap_sizing."><i class="fa fa-check"></i><b>7.1.4</b> Step 3. Determine the pressure drop to use for sizing (<span class="math inline">\(\Delta{P_{sizing}}).\)</span></a></li>
+<li class="chapter" data-level="7.1.4" data-path="use-of-flow-rate-equations-for-sizing-valves.html"><a href="use-of-flow-rate-equations-for-sizing-valves.html#step-4.-calculate-the-value-of-sigma-sigma-and-its-boundaries."><i class="fa fa-check"></i><b>7.1.4</b> Step 4. calculate the value of sigma (<span class="math inline">\(\sigma\)</span>) and its boundaries.</a></li>
+<li class="chapter" data-level="7.1.5" data-path="use-of-flow-rate-equations-for-sizing-valves.html"><a href="use-of-flow-rate-equations-for-sizing-valves.html#step-5.-determine-the-pressure-drop-to-use-for-sizing-deltap_sizing."><i class="fa fa-check"></i><b>7.1.5</b> Step 5. Determine the pressure drop to use for sizing (<span class="math inline">\(\Delta{P_{sizing}}).\)</span></a></li>
 </ul></li>
 </ul></li>
 <li class="chapter" data-level="8" data-path="how-to-size-a-control-valve.html"><a href="how-to-size-a-control-valve.html"><i class="fa fa-check"></i><b>8</b> How to Size a control valve</a><ul>
